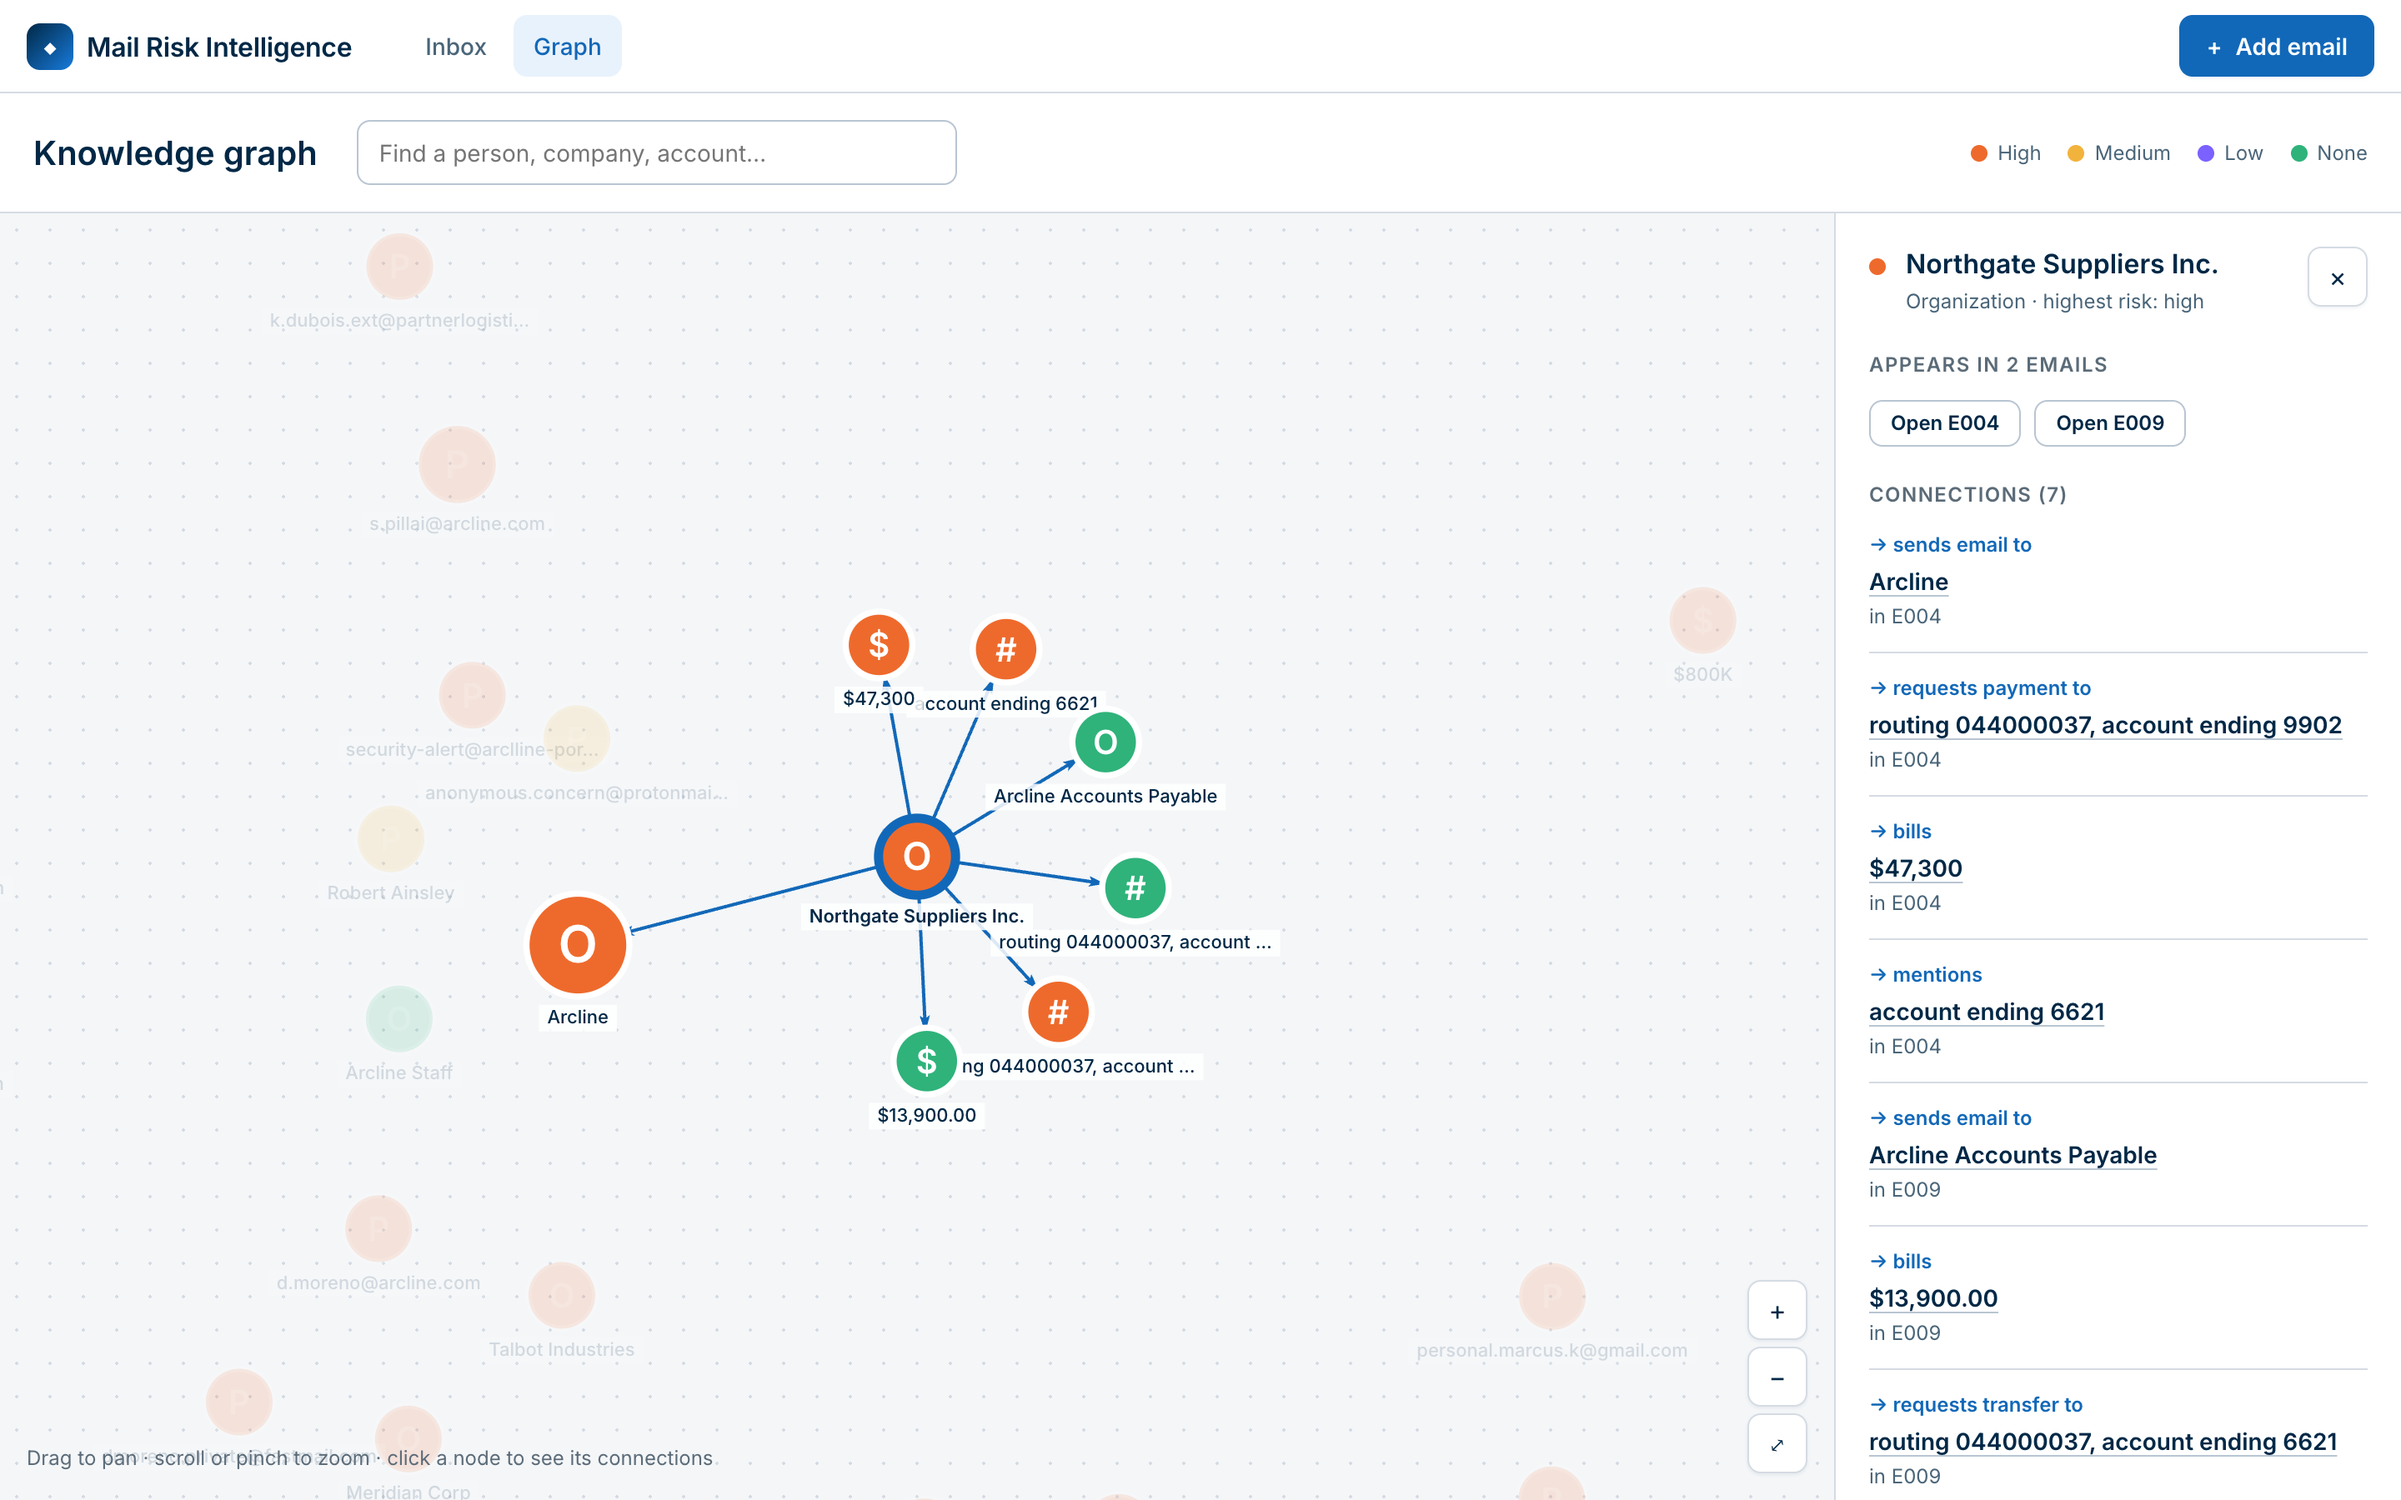
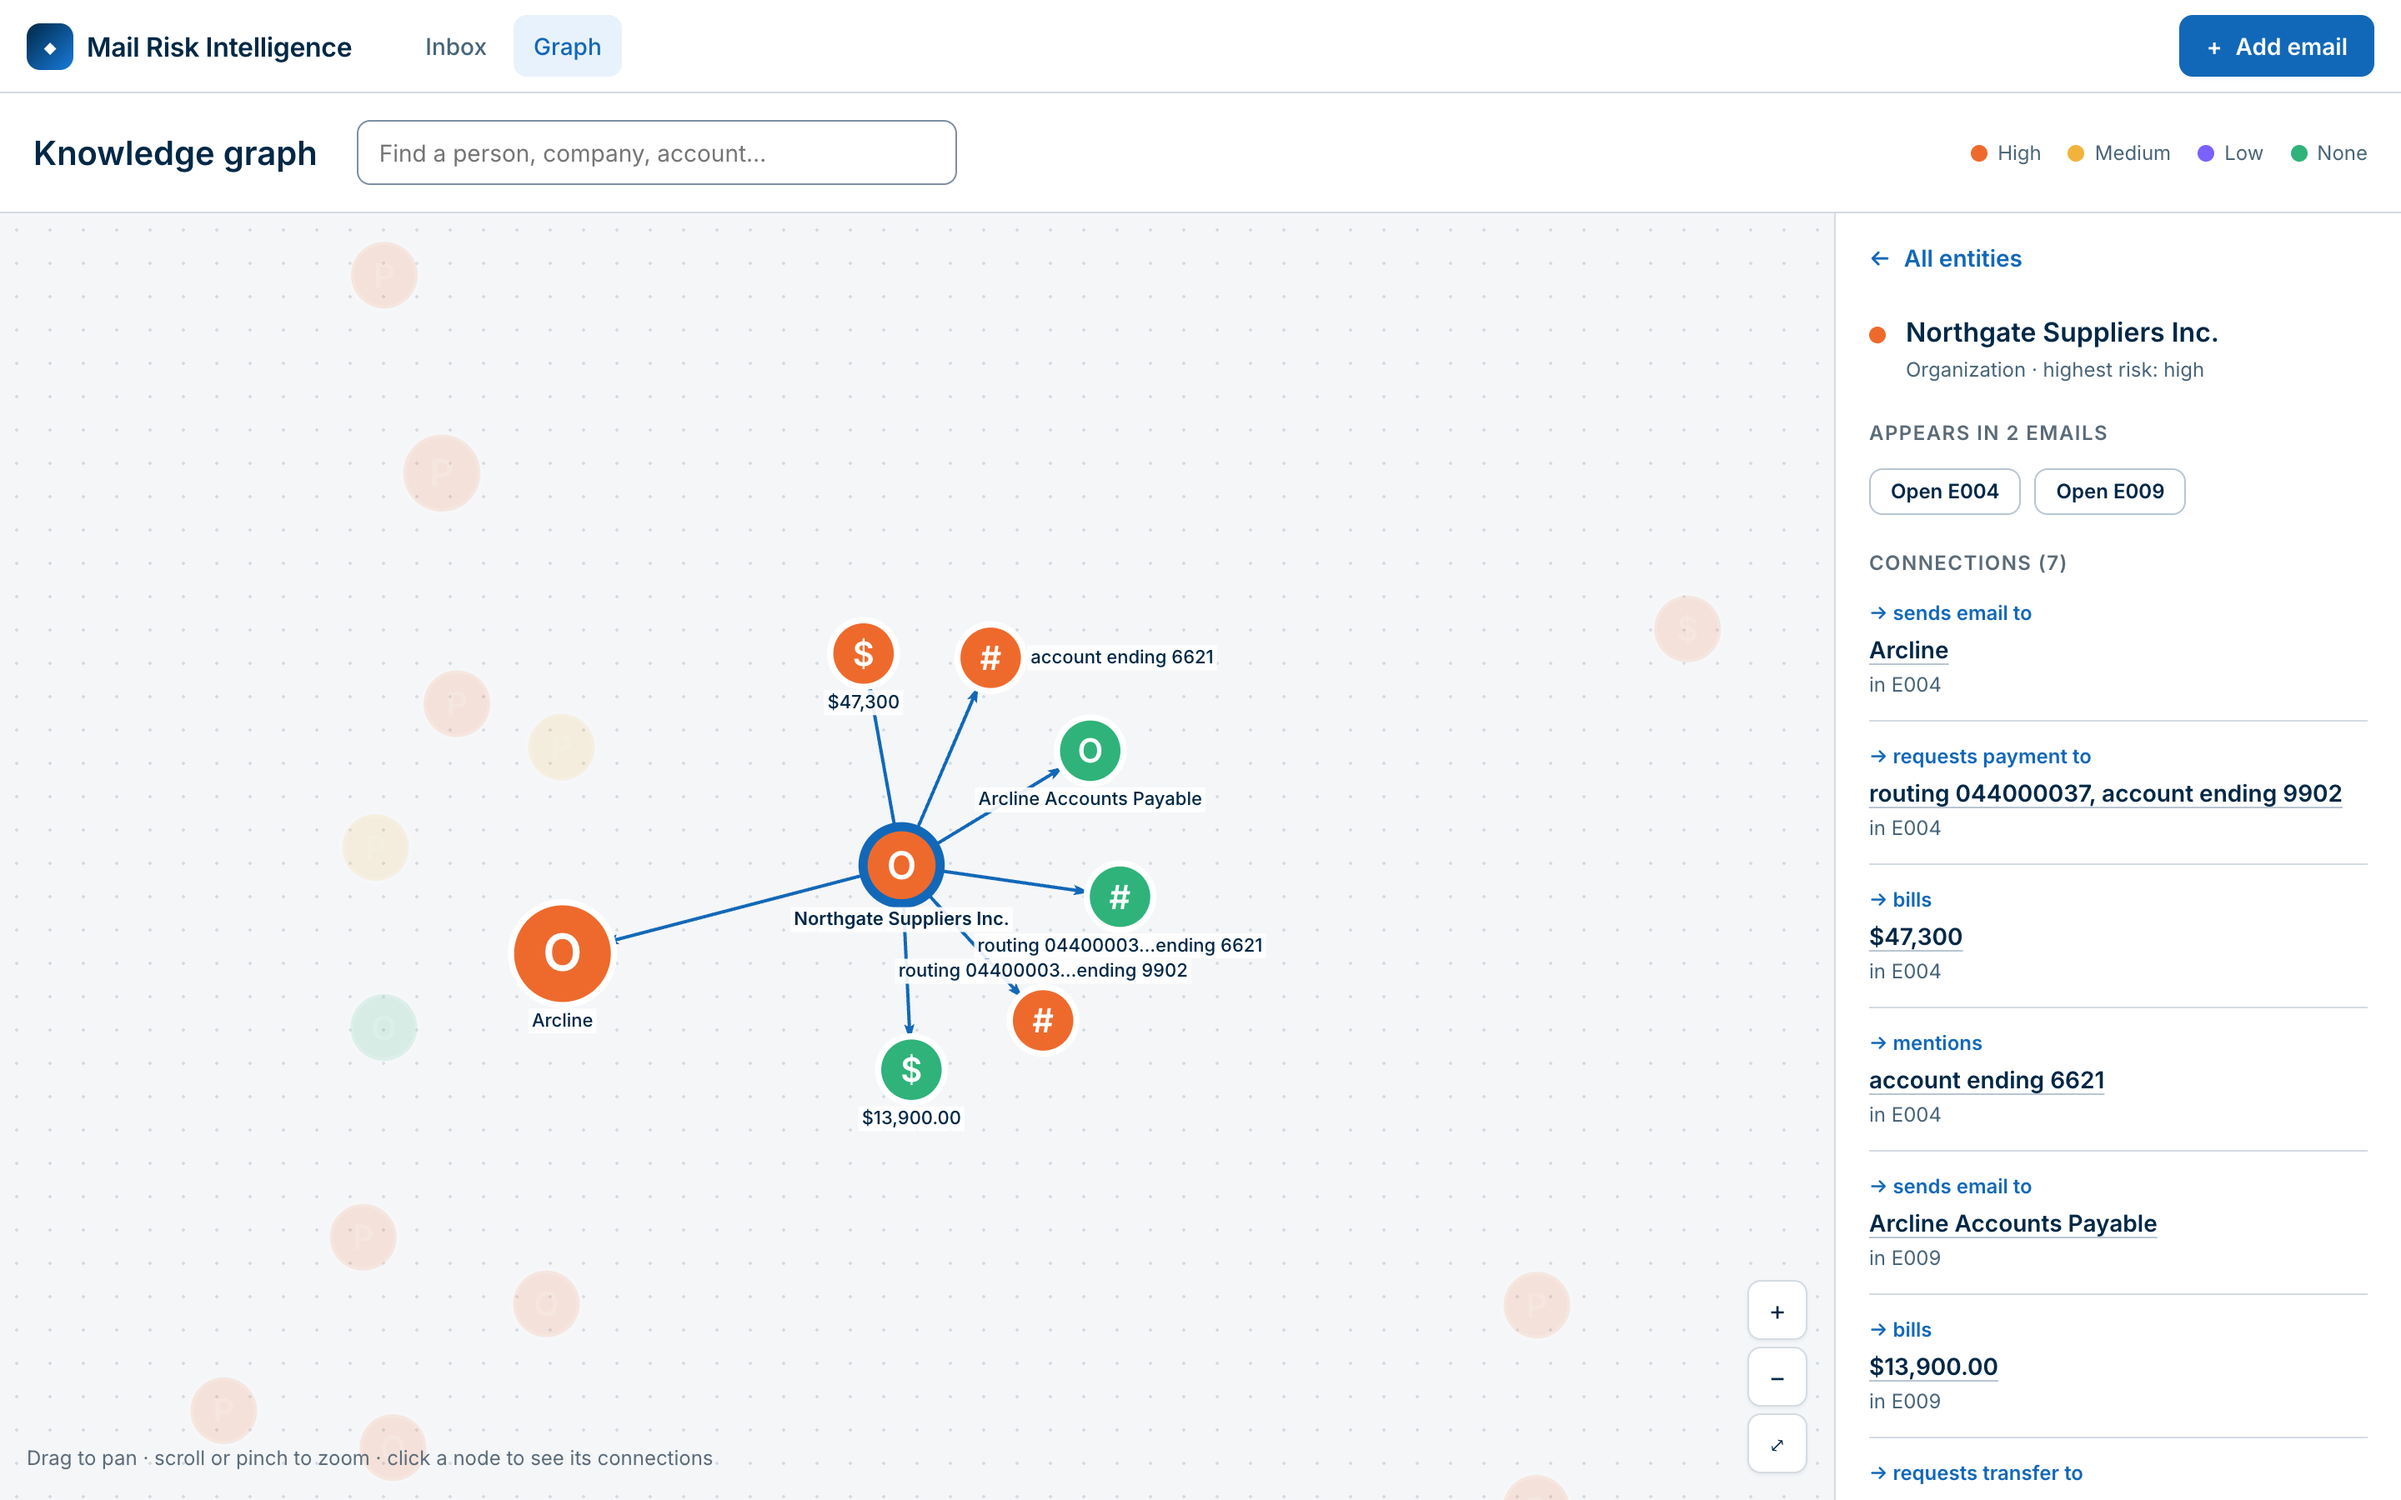
Avoid overlapping graph labels and reorder README screenshots

diff --git a/client/src/components/GraphView.tsx b/client/src/components/GraphView.tsx
@@ -63,6 +63,16 @@ function readPalette() {
   }
 }
 
+/** Cut long names in the middle so the distinguishing end stays visible ("routing 0440…ending 9902"). */
+function shortenMiddle(text: string, max: number): string {
+  if (text.length <= max) return text
+  let tail = text.slice(-Math.ceil((max - 1) * 0.55))
+  // Start the tail at a word boundary when one is close ("unt ending 9902" -> "ending 9902").
+  const space = tail.indexOf(' ')
+  if (space !== -1 && space < 6) tail = tail.slice(space + 1)
+  return `${text.slice(0, max - 1 - tail.length).trimEnd()}…${tail}`
+}
+
 const nodeRadius = (node: GraphNode) => 5 + Math.sqrt(node.emailIds.length) * 3
 
 interface GraphViewProps {
@@ -204,21 +214,60 @@ export function GraphView({ onOpenEmail }: GraphViewProps) {
       ctx.textBaseline = 'middle'
       ctx.fillText(TYPE_GLYPH[node.type], node.x!, node.y! + 0.5)
 
-      // Labels appear when zoomed in, or for the selection and its neighbors.
-      if (scale > 1.6 || (neighbors !== null && !dimmed)) {
-        const fontSize = Math.max(11 / scale, 2.5)
-        ctx.font = `${selected ? 600 : 500} ${fontSize}px Inter Variable, sans-serif`
-        ctx.textBaseline = 'top'
-        const label = node.name.length > 28 ? `${node.name.slice(0, 27)}…` : node.name
-        const width = ctx.measureText(label).width
-        ctx.fillStyle = 'rgba(255,255,255,0.85)'
-        ctx.fillRect(node.x! - width / 2 - 2, node.y! + r + 2, width + 4, fontSize + 2)
-        ctx.fillStyle = palette.text
-        ctx.fillText(label, node.x!, node.y! + r + 3)
-      }
       ctx.globalAlpha = 1
     },
     [neighbors, selectedId, palette],
+  )
+
+  // Labels are drawn after all nodes, most important first, and each one takes the first free
+  // spot around its node (below, above, right, left). A label that would overlap another is
+  // skipped: the entity is still listed in the side panel and shown on hover.
+  const drawLabels = useCallback(
+    (ctx: CanvasRenderingContext2D, scale: number) => {
+      const candidates = data.nodes
+        .filter((node) => (neighbors !== null ? neighbors.has(node.id as number) : scale > 2.2))
+        .sort(
+          (a, b) =>
+            Number(b.id === selectedId) - Number(a.id === selectedId) || b.emailIds.length - a.emailIds.length,
+        )
+      const fontSize = Math.max(11 / scale, 2.5)
+      const pad = 2 / scale
+      // Labeled nodes' own circles count as occupied space, so a label never covers a node.
+      const placed: { x: number; y: number; w: number; h: number }[] = candidates
+        .filter((node) => node.x !== undefined && node.y !== undefined)
+        .map((node) => {
+          const r = nodeRadius(node)
+          return { x: node.x! - r, y: node.y! - r, w: r * 2, h: r * 2 }
+        })
+      const overlaps = (r: (typeof placed)[number]) =>
+        placed.some((p) => r.x < p.x + p.w && r.x + r.w > p.x && r.y < p.y + p.h && r.y + r.h > p.y)
+
+      for (const node of candidates) {
+        if (node.x === undefined || node.y === undefined) continue
+        const selected = node.id === selectedId
+        ctx.font = `${selected ? 600 : 500} ${fontSize}px Inter Variable, sans-serif`
+        const label = shortenMiddle(node.name, 28)
+        const w = ctx.measureText(label).width + pad * 2
+        const h = fontSize + pad * 2
+        const r = nodeRadius(node) + pad
+        const spots = [
+          { x: node.x - w / 2, y: node.y + r },
+          { x: node.x - w / 2, y: node.y - r - h },
+          { x: node.x + r, y: node.y - h / 2 },
+          { x: node.x - r - w, y: node.y - h / 2 },
+        ].map((spot) => ({ ...spot, w, h }))
+        const spot = spots.find((candidate) => !overlaps(candidate))
+        if (!spot) continue
+        placed.push(spot)
+        ctx.fillStyle = 'rgba(255,255,255,0.9)'
+        ctx.fillRect(spot.x, spot.y, spot.w, spot.h)
+        ctx.fillStyle = palette.text
+        ctx.textAlign = 'left'
+        ctx.textBaseline = 'top'
+        ctx.fillText(label, spot.x + pad, spot.y + pad)
+      }
+    },
+    [data, neighbors, selectedId, palette],
   )
 
   const zoomBy = (factor: number) => {
@@ -329,6 +378,7 @@ export function GraphView({ onOpenEmail }: GraphViewProps) {
             nodeId="id"
             nodeLabel={(node) => `${node.name} (${TYPE_LABEL[node.type]})`}
             nodeCanvasObject={drawNode}
+            onRenderFramePost={drawLabels}
             nodePointerAreaPaint={(node, color, ctx) => {
               ctx.fillStyle = color
               ctx.beginPath()

diff --git a/PROCESS.md b/PROCESS.md
@@ -15,7 +15,7 @@ I built this with **Claude** (chat, for planning) and **Claude Code** (desktop a
 | Bonus | Knowledge graph | Interactive graph, search, entity panel |
 | 6 | Tests | Server tests, UI tests |
 | 7 | Documentation | README, PROCESS, screenshots, clean-clone check |
-| Review | External review fixes | Graph keyboard access, reproducible accessibility tests, upload validation, address parsing, error messages, design token guard, responsive check |
+| 8 | Double review before submitting | Round 1: a second AI reviewing the repo as a hiring panel. Round 2: peer review by a developer friend |
 
 ## 1. Planning before any code
 
@@ -142,9 +142,13 @@ Within steps I had approved, I let the agent work on its own:
 - For the graph, the agent offered options and I picked node color by risk (over color by entity type) and approved its idea of a keyboard-usable search ([`341a646`](https://github.com/debic/mail-risk-intelligence/commit/341a646)).
 - I asked the agent to explain how the knowledge graph connects emails (through shared entities, not email-to-email links) before accepting it, which also surfaced a known limitation for the README.
 
-**After an external review**
+## 7. Stage 8: double review before submitting
 
-When the app was done, I asked a second AI chat to review the repo as a hiring panel would and brought each finding back to the agent:
+Before sending the repo I had it reviewed twice and brought each finding back to the agent, which assessed it (valid, partly valid, or already covered) before fixing anything.
+
+**Round 1: a second AI acting as a hiring panel**
+
+I asked another AI chat to review the repo against the brief, as a strict hiring panel would:
 
 - Canvas graph without a full keyboard equivalent: browsable entity list (exchange E, [`ce67e6f`](https://github.com/debic/mail-risk-intelligence/commit/ce67e6f)).
 - "axe: 0 violations" was not reproducible because we had run axe manually: axe-core tests on the main components and a contrast test on the real design tokens, plus a check that the axe test fails on a deliberately broken component ([`a34a326`](https://github.com/debic/mail-risk-intelligence/commit/a34a326)).
@@ -153,7 +157,11 @@ When the app was done, I asked a second AI chat to review the repo as a hiring p
 - Proof that the design system is applied consistently: found 4 hardcoded colors, off-scale 6px values, input borders below 3:1 and long values overflowing the key facts card. All fixed, plus a guard test that fails on any hardcoded color or undefined token ([`0457201`](https://github.com/debic/mail-risk-intelligence/commit/0457201)).
 - An explicit responsive acceptance test at 320 / 375 / 768 / 900 / 1280px: turned into `npm run check:responsive`. It found the dialog buttons wrapping at 320px, now stacked on phones, and we confirmed the script fails when the fix is undone ([`0457201`](https://github.com/debic/mail-risk-intelligence/commit/0457201)). I first tried puppeteer-core but switched to playwright-core because the former added 7 high-severity audit warnings.
 
-## 7. How to verify
+**Round 2: peer review by a developer friend**
+
+In progress: feedback on security (prompt injection, attachment types, unknown links), code organization (configuration, prompts, folder structure), an audit trail for re-analysis, and a production build.
+
+## 8. How to verify
 
 Everything above can be checked without trusting this document:
 
@@ -164,7 +172,7 @@ Everything above can be checked without trusting this document:
 | `npm run eval -w server` | a `GROQ_API_KEY` in `.env` | 10/10 seeds at the expected risk level (LLM output can vary on borderline cases) | [`docs/evidence/eval-runs.txt`](docs/evidence/eval-runs.txt) (all 4 runs) |
 | `git log` | nothing | one commit per step, matching the stages and fixes above | [commit history](https://github.com/debic/mail-risk-intelligence/commits/main) |
 
-## 8. Time log
+## 9. Time log
 
 About 30 min of planning in Claude chat before starting, then building from 12:20. Two breaks (lunch and a short one) are not counted. Times come from my notes and match the commit timestamps.
 
@@ -180,12 +188,13 @@ About 30 min of planning in Claude chat before starting, then building from 12:2
 | Bonus: knowledge graph | ~10 min | 1h |
 | 6. Tests | ~5 min | 20 min |
 | 7. README, PROCESS, screenshots, final check | ~15 min | 40 min |
-| Fixes from an external review | ~30 min | |
+| 8. Double review: round 1 (AI reviewer) fixes | ~30 min | |
+| 8. Double review: round 2 (peer review) fixes, from 20:52 after a break | in progress | |
 | **Total** | **about 4h25** (30 min planning + 3h55 building) | 5h45 |
 
 Stage 0 ran over because of the revert and because I took time to understand the plan; everything after went faster than planned because writing code with an agent is quick, and most of my time went into reviewing, deciding and verifying.
 
-## 9. Reflection
+## 10. Reflection
 
 - **What worked**: a written `CLAUDE.md` with rules and an expected-results table; small approved steps with a commit after each one; letting the agent verify its own work (scripts, tests, browser, axe) before showing me; an evaluation script against a baseline, which turned "the AI seems fine" into a measurable 10/10; and a second AI acting as a reviewer, which caught gaps I would not have looked for.
 - **What I'd do differently**: make the approval rule explicit from the very first message to avoid the Stage 1 revert, check the LLM provider's current model list before planning around a specific model, and build the reproducible checks (axe, responsive) from the start instead of after the review.

diff --git a/README.md b/README.md
@@ -7,9 +7,17 @@ Emails land in a mailbox, two chained AI agents analyze them, and the UI shows w
 
 ![Inbox and email detail](docs/screenshots/inbox-detail.png)
 
-| Knowledge graph | Mobile |
-| --- | --- |
-| ![Knowledge graph](docs/screenshots/graph.png) | ![Mobile detail](docs/screenshots/mobile-detail.png) |
+**Knowledge graph**: Northgate Suppliers selected, linked to its old account (6621, E009) and the new one it asks to be paid to (9902, E004).
+
+![Knowledge graph](docs/screenshots/graph.png)
+
+**Mobile**: inbox and email detail at 390px.
+
+<p>
+  <img src="docs/screenshots/mobile-inbox.png" alt="Mobile inbox" width="280">
+  &nbsp;&nbsp;
+  <img src="docs/screenshots/mobile-detail.png" alt="Mobile email detail" width="280">
+</p>
 
 ## Run it
 
